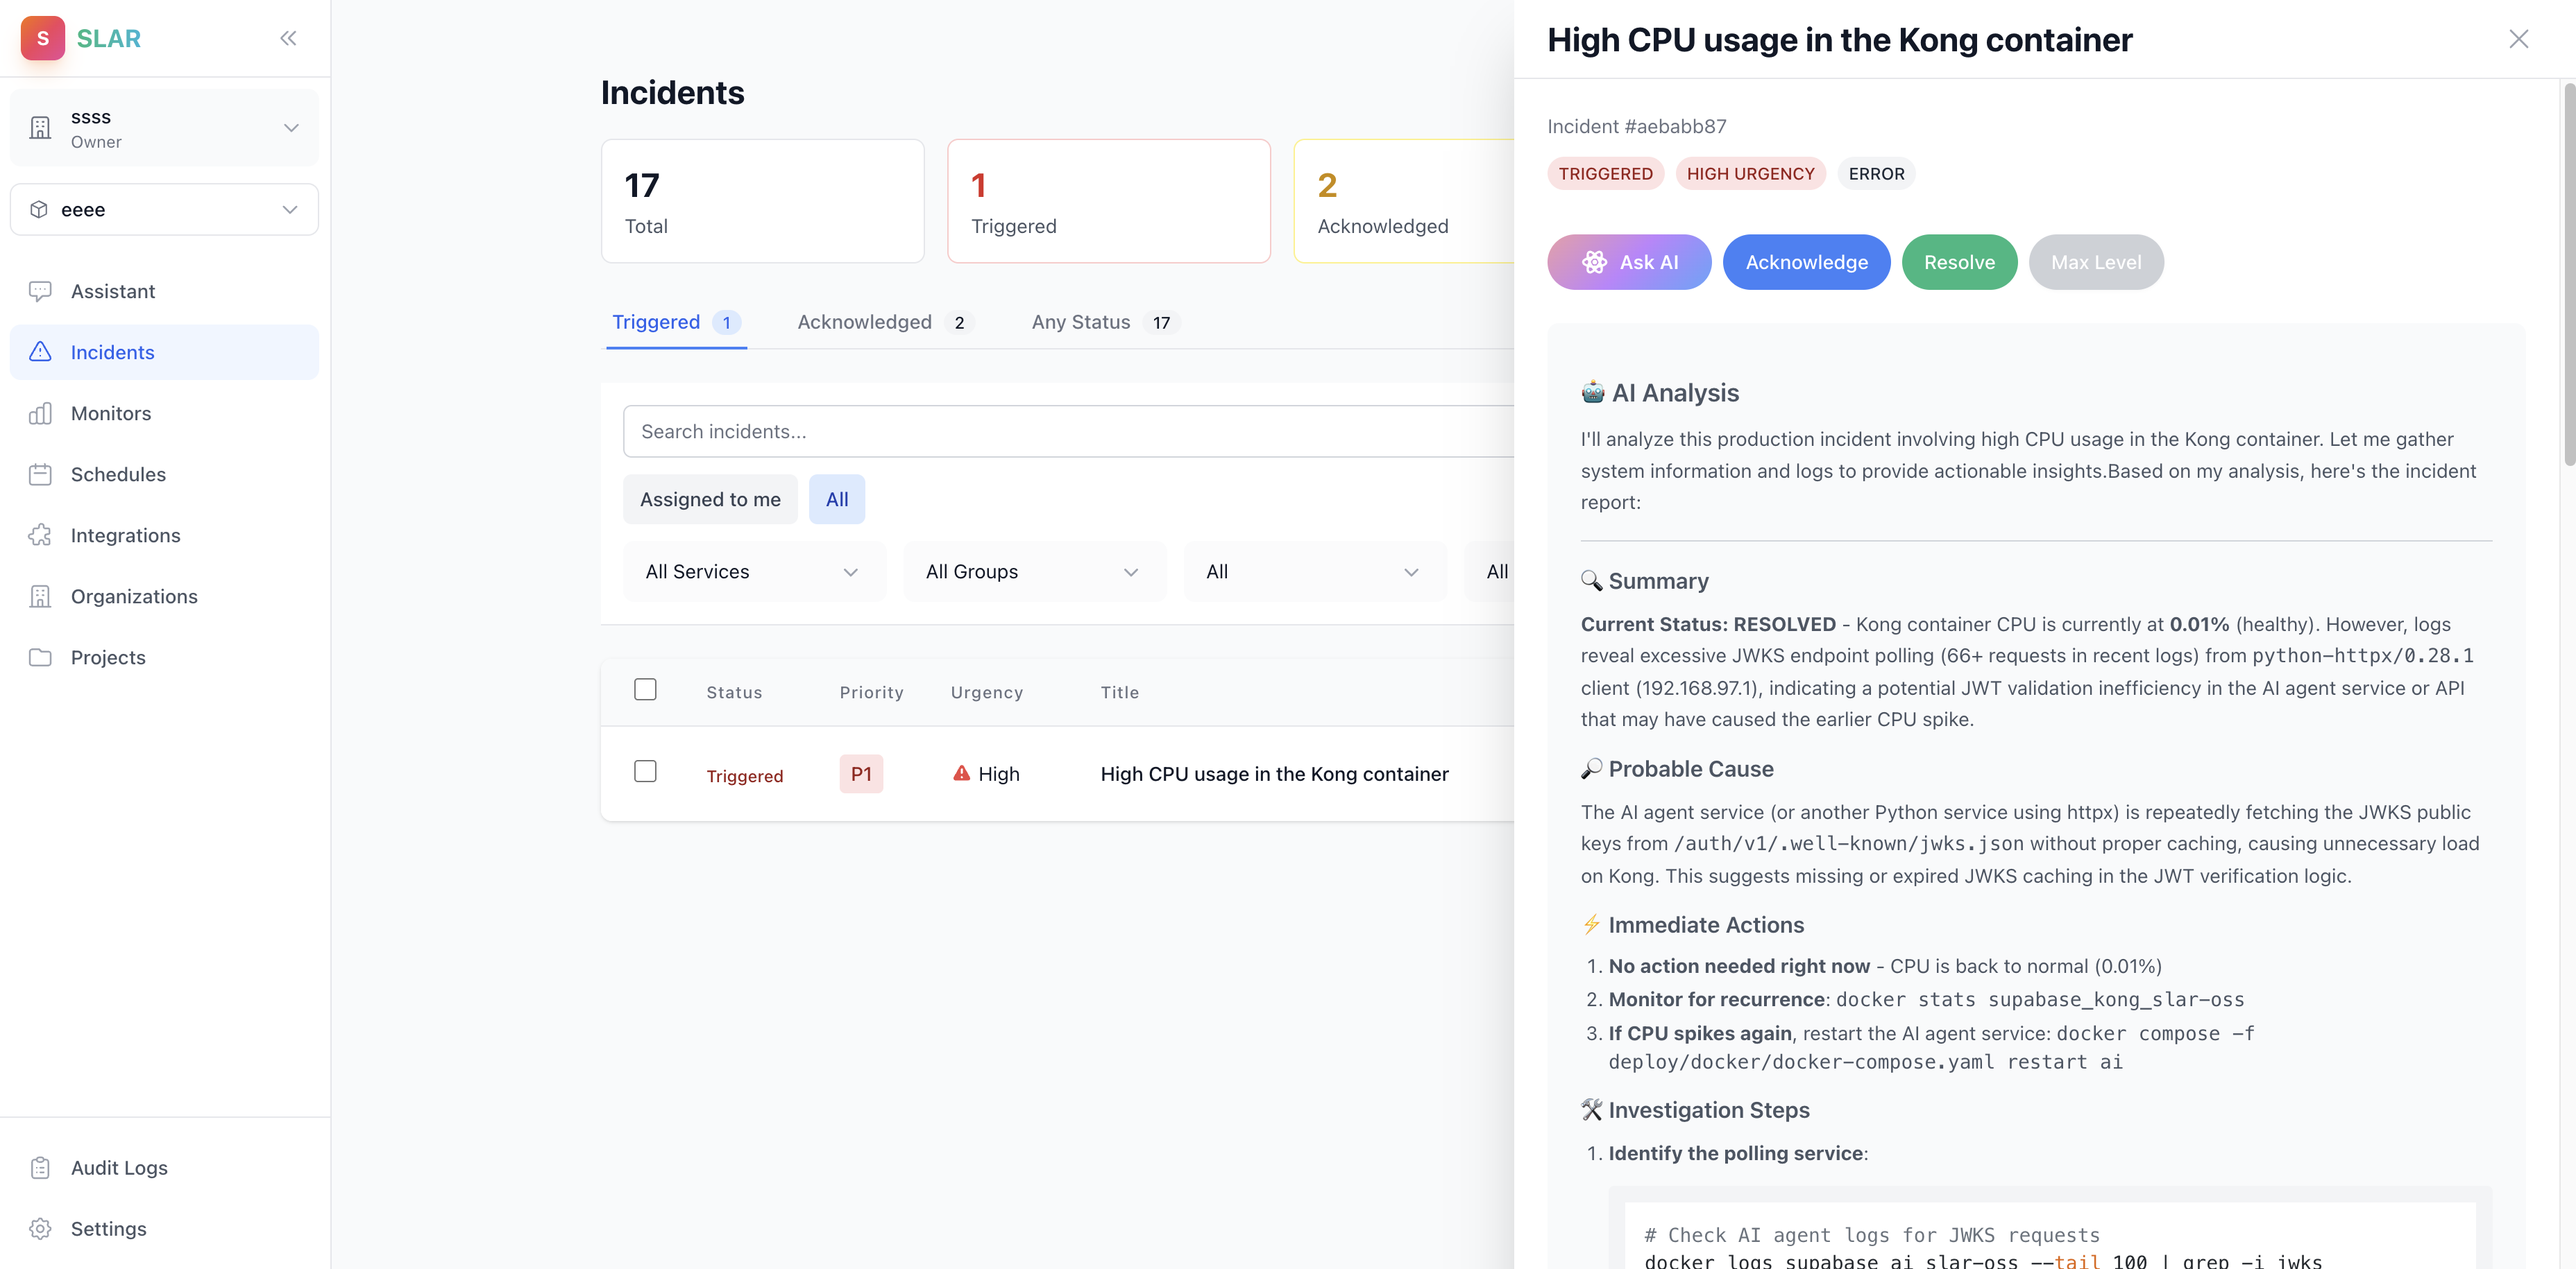
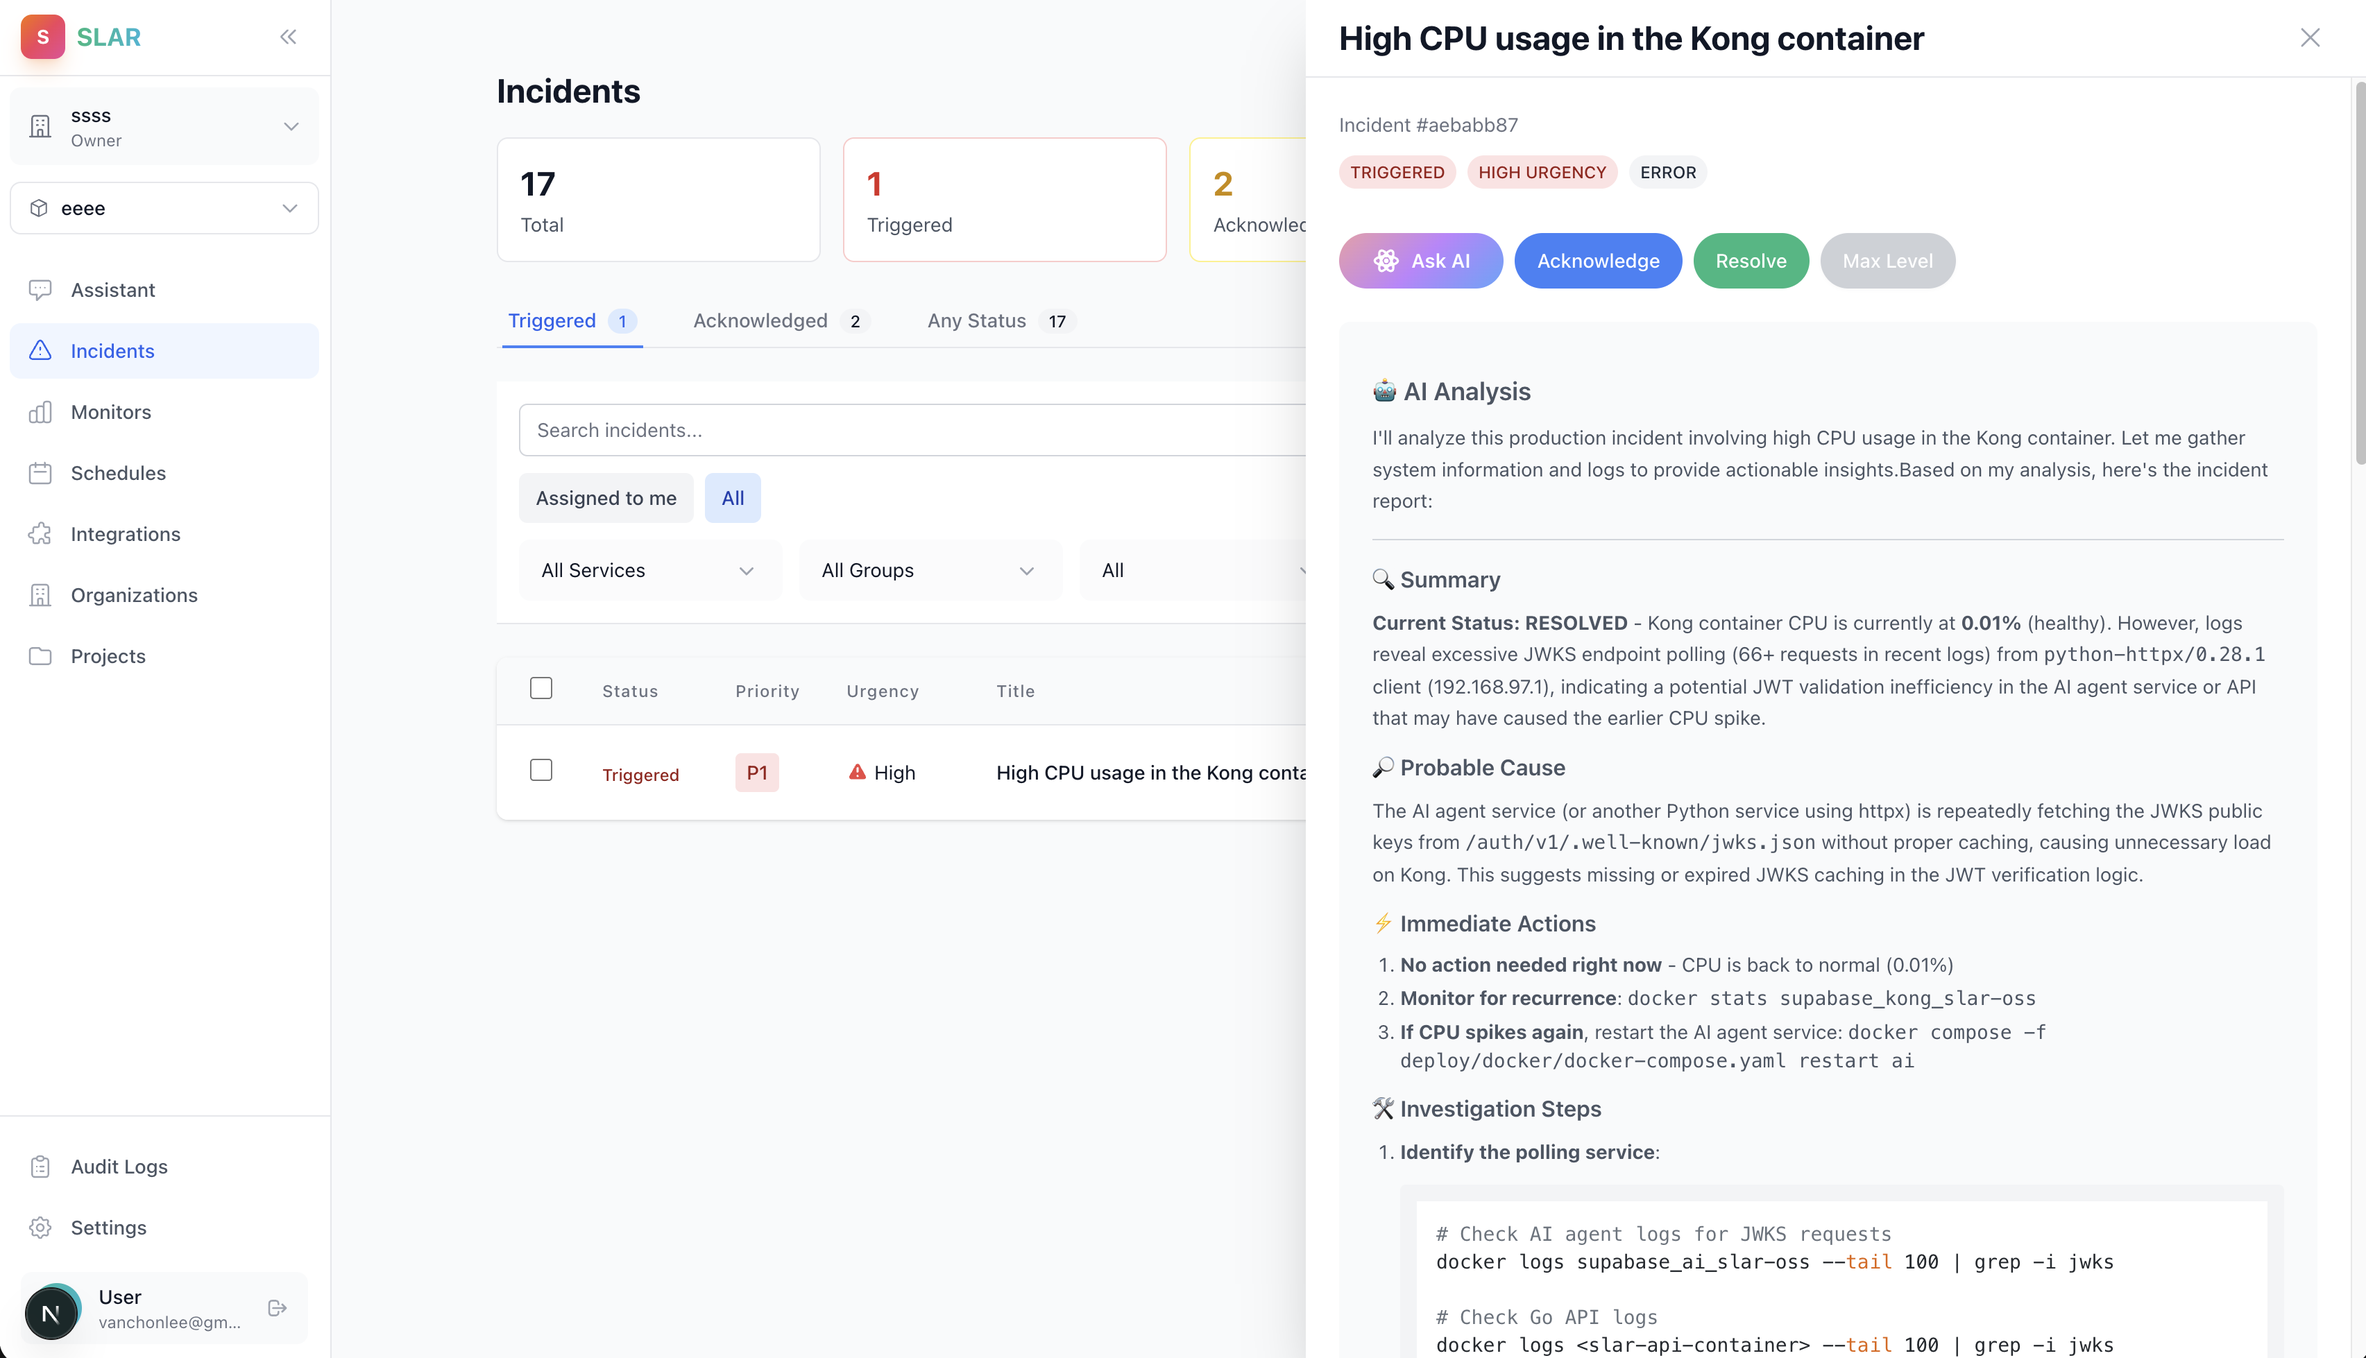
docs: Update web screenshot, center images, and correct Helm deployment paths in README.

diff --git a/README.md b/README.md
@@ -14,7 +14,9 @@
 
 SLAR is an open-source on-call management platform with AI-powered incident response. It helps teams manage on-call rotations, route alerts, and respond to incidents with AI-powered assistance.
 
+<p align="center">
 <img src="./images/mobile.png" alt="SLAR Mobile" width="200"> <img src="./images/web.png" alt="SLAR Web" width="600">
+</p>
 
 ---
 
@@ -82,10 +84,10 @@ mkdir slar-project
 cp -r slar/deploy/helm slar-project/
 
 # Copy config
-cp slar-project/helm/volumes/config/cfg.ex.yaml slar-project/helm/volumes/config/dev.config.yaml
+cp slar-project/helm/slar/cfg.ex.yaml slar-project/helm/slar/dev.config.yaml
 
 # Switch to your project directory
-cd slar-project/helm
+cd slar-project/helm/slar
 helm install slar . -f values.yaml
 ```
 
